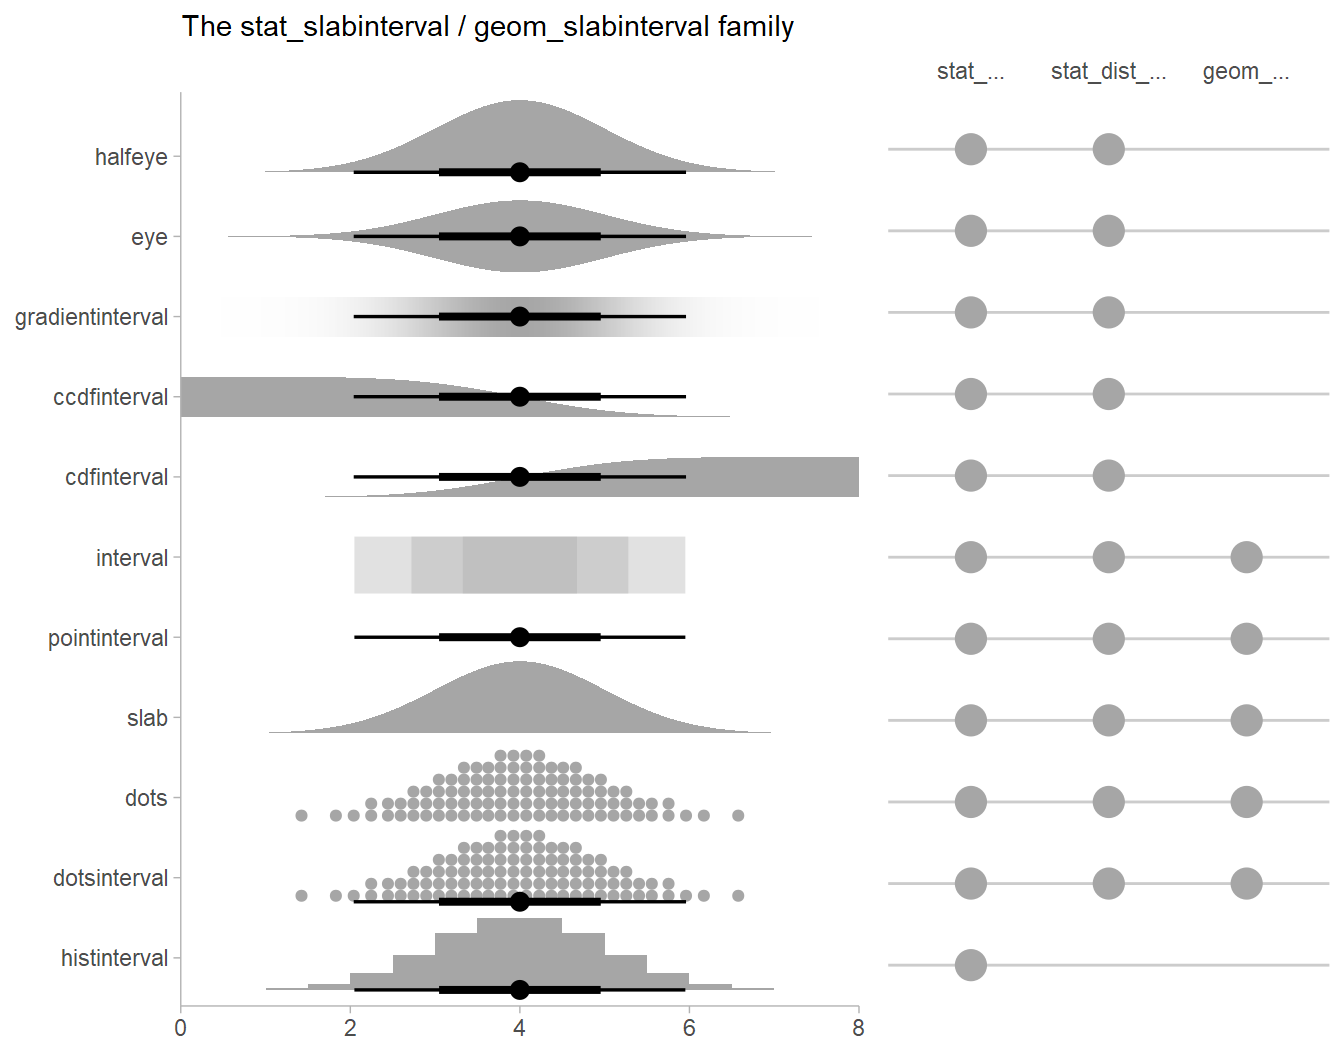
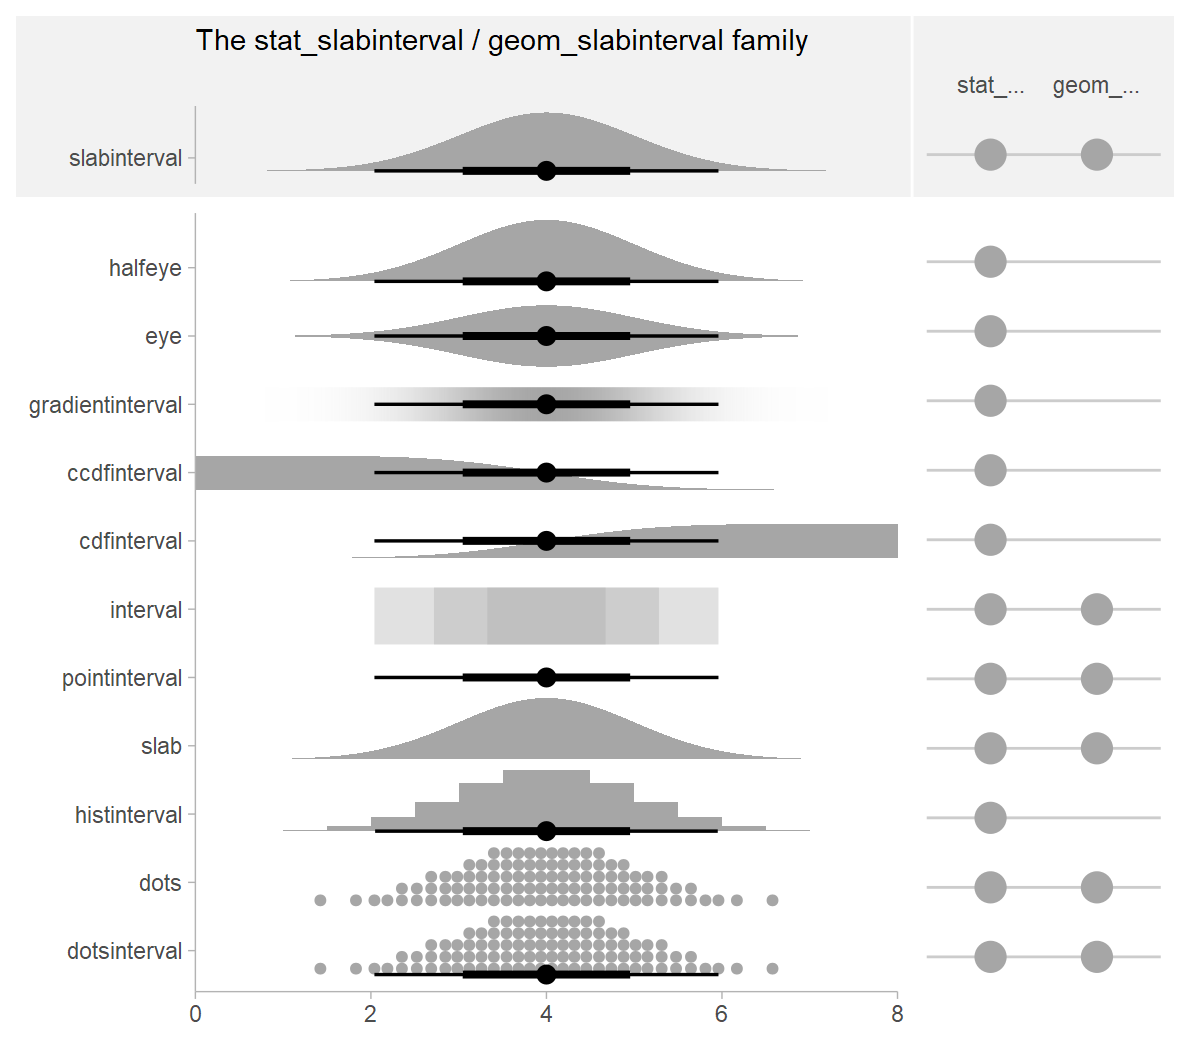
docs updates

diff --git a/README.md b/README.md
@@ -24,22 +24,24 @@ probability distributions (see the
 [tidybayes](https://mjskay.github.io/tidybayes/) package, which builds
 on top of `ggdist`).
 
-The `geom_slabinterval()` / `stat_slabinterval()` /
-`stat_dist_slabinterval()` family (see `vignette("slabinterval")`)
-includes point summaries and intervals, eye plots, half-eye plots, CCDF
-bar plots, gradient plots, dotplots, and histograms:
+The `geom_slabinterval()` / `stat_slabinterval()` family (see
+`vignette("slabinterval")`) includes point summaries and intervals, eye
+plots, half-eye plots, CCDF bar plots, gradient plots, dotplots, and
+histograms:
 
 ![The slabinterval family of geoms and
 stats](man/figures/slabinterval_family.png)
 
-The `geom_lineribbon()` / `stat_lineribbon()` / `stat_dist_lineribbon()`
-family (see `vignette("lineribbon")`) makes it easy to visualize fit
-lines with an arbitrary number of uncertainty bands:
+The `geom_lineribbon()` / `stat_lineribbon()` family (see
+`vignette("lineribbon")`) makes it easy to visualize fit lines with an
+arbitrary number of uncertainty bands:
 
 ![](man/figures/README/lineribbon-1.png)<!-- -->
 
-All geoms in `ggdist` also have `stat_dist_` counterparts designed for
-visualizing analytical distributions, which is particularly useful when
+All stat in `ggdist` also support visualizing analytical distributions
+and vectorized distribution data types like
+[distributional](https://pkg.mitchelloharawild.com/distributional/)
+objects or `posterior::rvar()` objects. This is particularly useful when
 visualizing uncertainty in frequentist models (see
 `vignette("freq-uncertainty-vis")`) or when visualizing priors in a
 Bayesian analysis.
@@ -84,6 +86,6 @@ reproduce the issue. Pull requests should be filed against the
 ## Citing `ggdist`
 
 Matthew Kay (2021). *ggdist: Visualizations of Distributions and
-Uncertainty*. R package version 3.0.1,
+Uncertainty*. R package version 3.0.1.9000,
 <https://mjskay.github.io/ggdist/>. DOI:
 [10.5281/zenodo.3879620](https://doi.org/10.5281/zenodo.3879620).
